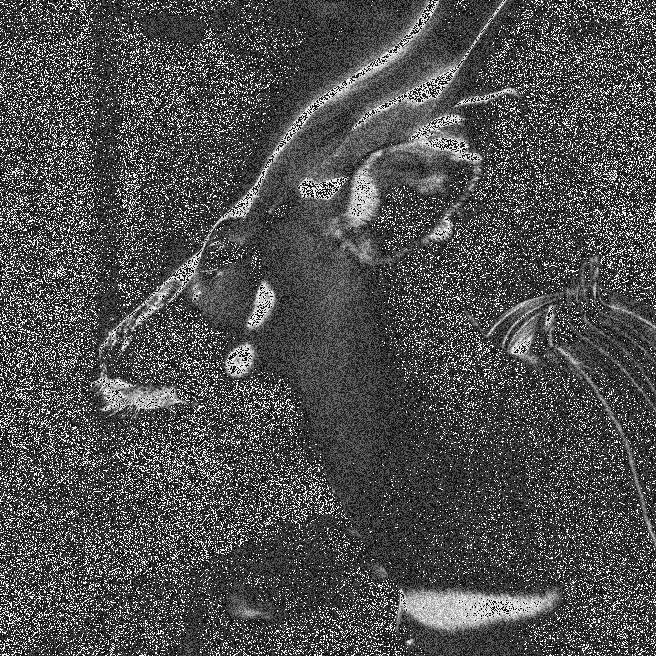
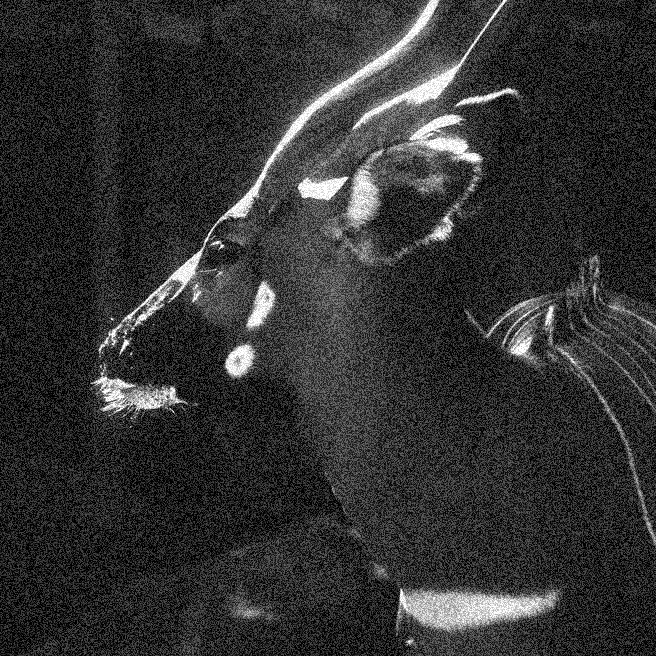
clamped noised values to 0 or 255

diff --git a/cpp_files/utilities.cpp b/cpp_files/utilities.cpp
@@ -1,4 +1,5 @@
 #include "utilities.hpp"
+#include <algorithm>
 
 namespace utilities
 {
@@ -49,7 +50,8 @@ namespace utilities
         {
             for (int j = 0; j < noisy_matrix.cols(); ++j)
             {   
-                noisy_matrix(i, j) += distribution(generator);
+                int noisy_value = noisy_matrix(i, j) + distribution(generator);
+                noisy_matrix(i, j) = std::clamp(noisy_value, 0, 255);
             }
         }
         return noisy_matrix;
